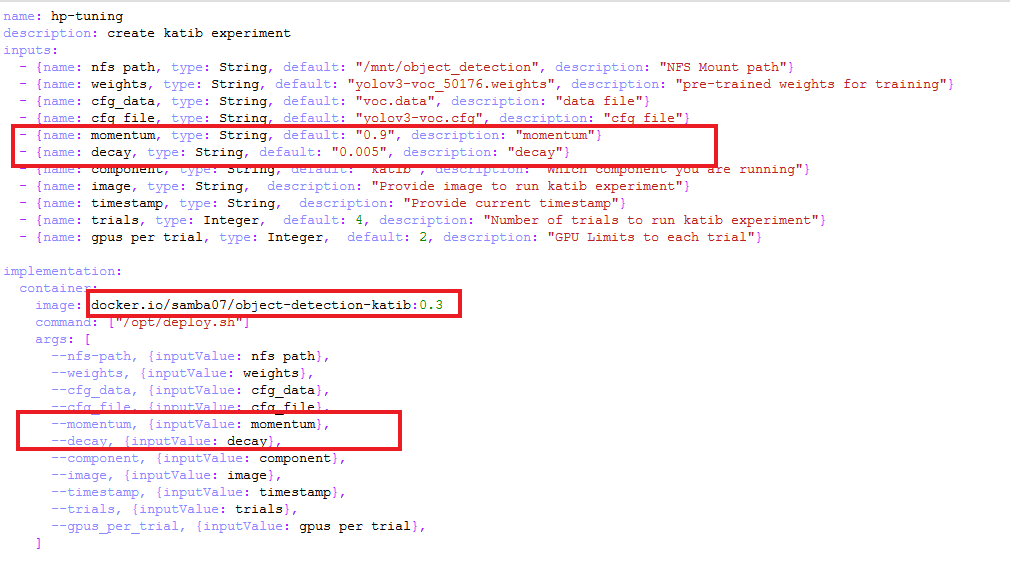
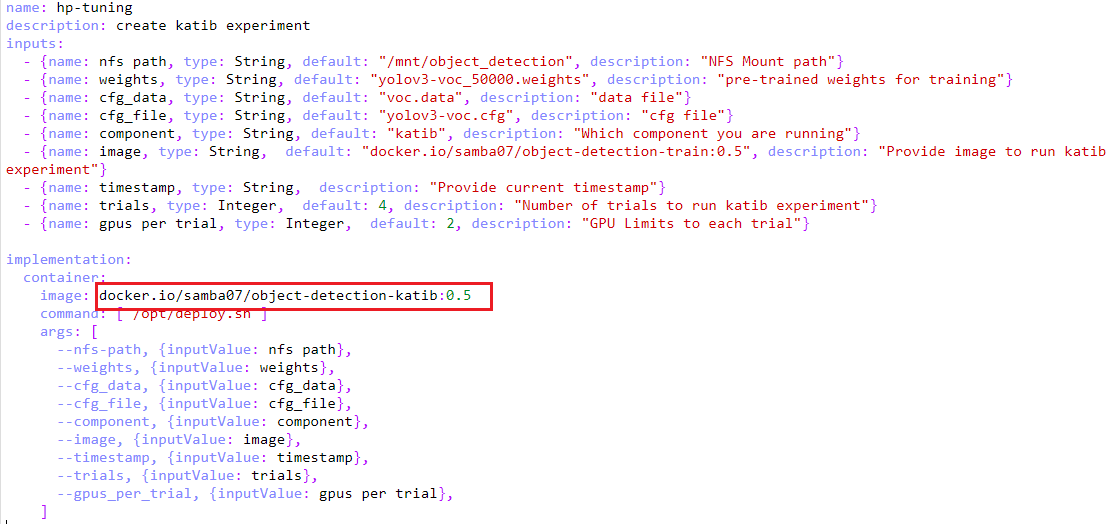
updatec katib component

Changed region(s): [[0.0, 0.0, 1.0, 0.9771]]

diff --git a/apps/computer-vision/object-detection/onprem/pipeline/Katib.md b/apps/computer-vision/object-detection/onprem/pipeline/Katib.md
@@ -17,14 +17,20 @@ Additional hyperparameters and the number of hyperparameters to be tuned can be 
 
 ![Custom HP tuning](./pictures/22-katib-params.png)
 
+- Build Docker image for [Katib component](./components/v2/katib) & provide the resulting image name under ```image``` in ```component.yaml``` in the location as shown below.
+
+![Custom HP tuning](./pictures/24-katib-comp-yaml.png)
+
+- Open Train component deployment shell script named ```deploy.sh``` present in folder of [Train src](./components/v2/train/src).
+
 - Declare the desired hyperparameters under ```do while``` cases in the same file as shown.
 
 ![Custom HP tuning](./pictures/23-katib-params.png)
 
-- Open ```component.yaml``` of [Katib component](./components/v2/katib), and add the required configuration as shown below under ```inputs:``` tag & the ```args:``` tag under ```implementation:``` tag.
+- Open ```component.yaml``` of [Train component](./components/v2/train), and add the required configuration as shown below under ```inputs:``` tag & the ```args:``` tag under ```implementation:``` tag.
 
-![Custom HP tuning](./pictures/24-katib-comp-yaml.png)
+![Custom HP tuning](./pictures/23-train-comp-yaml.png)
 
-- Build Docker image for [Katib component](./components/v2/katib) & provide the resulting image name under ```image``` in ```component.yaml``` in the location as shown above.
+- Build Docker image for [Train component](./components/v2/train) & provide the resulting image name under ```image``` in ```component.yaml``` in the location as shown above.
 
 Katib component with customized HP tuning is ready to be used in object detection pipeline.
